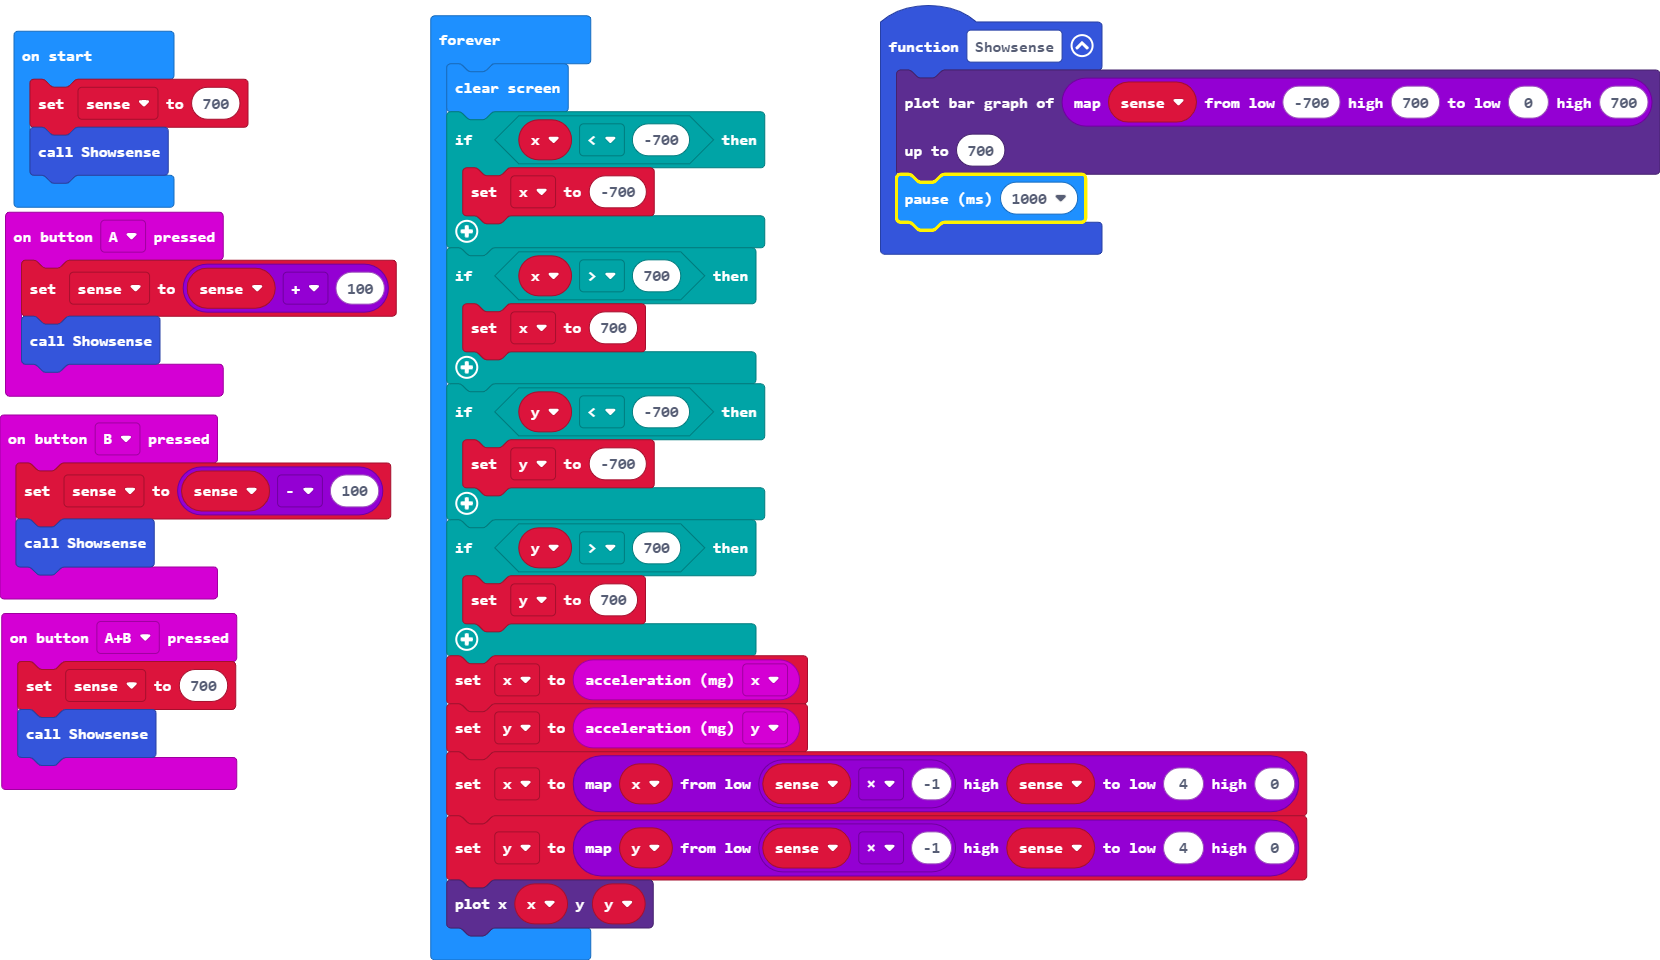
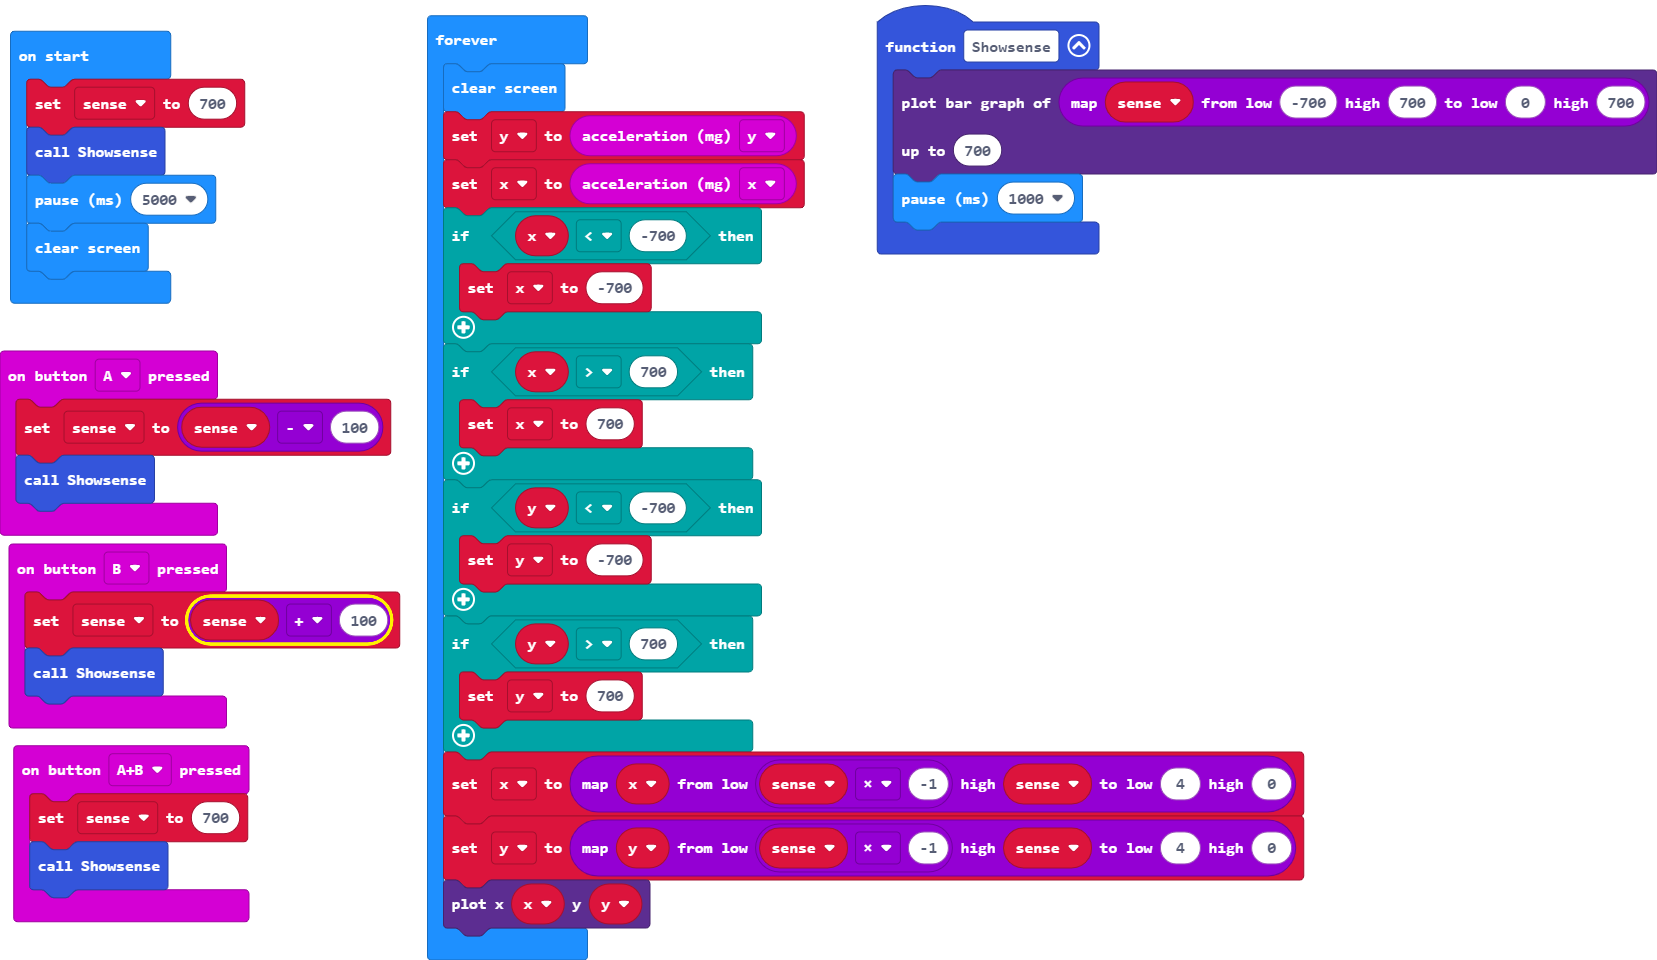
Update main.blocks, main.ts

Changed region(s): [[0.0, 0.0312, 0.8002, 0.9688], [0.5232, 0.0312, 0.8926, 0.25]]

diff --git a/main.ts b/main.ts
@@ -1,5 +1,5 @@
 input.onButtonPressed(Button.A, function () {
-    sense = sense + 100
+    sense = sense - 100
     Showsense()
 })
 function Showsense () {
@@ -14,16 +14,20 @@ input.onButtonPressed(Button.AB, function () {
     Showsense()
 })
 input.onButtonPressed(Button.B, function () {
-    sense = sense - 100
+    sense = sense + 100
     Showsense()
 })
-let y = 0
 let x = 0
+let y = 0
 let sense = 0
 sense = 700
 Showsense()
+basic.pause(5000)
+basic.clearScreen()
 basic.forever(function () {
     basic.clearScreen()
+    y = input.acceleration(Dimension.Y)
+    x = input.acceleration(Dimension.X)
     if (x < -700) {
         x = -700
     }
@@ -36,8 +40,6 @@ basic.forever(function () {
     if (y > 700) {
         y = 700
     }
-    x = input.acceleration(Dimension.X)
-    y = input.acceleration(Dimension.Y)
     x = Math.map(x, sense * -1, sense, 4, 0)
     y = Math.map(y, sense * -1, sense, 4, 0)
     led.plot(x, y)
